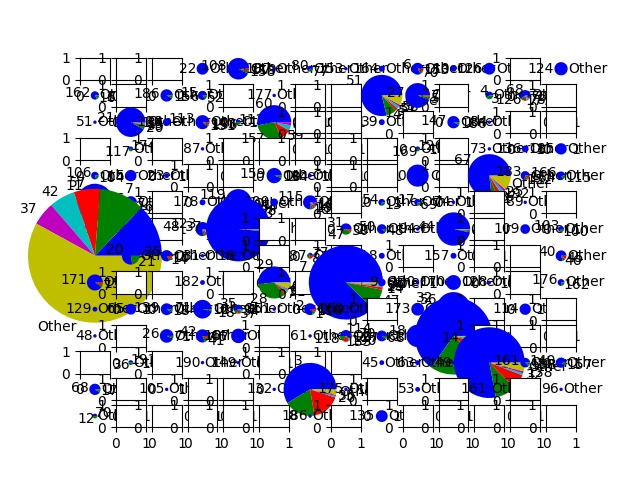
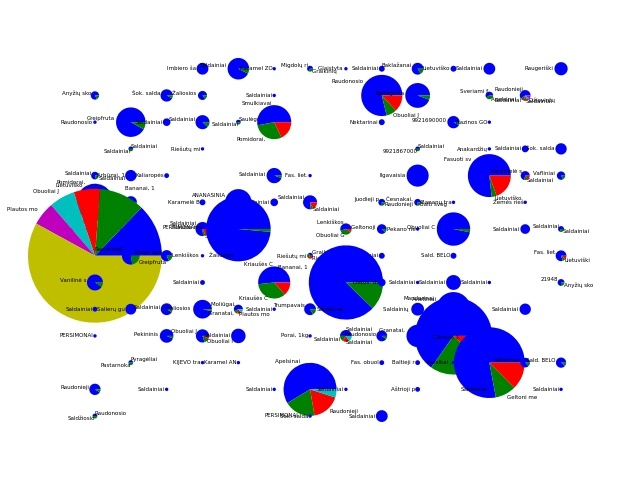
multi gpu, train clsf

Changed region(s): [[0.0625, 0.0938, 0.9688, 0.9375], [0.0, 0.4062, 0.0625, 0.4688], [0.4375, 0.9062, 0.4688, 0.9375]]

diff --git a/InterClassSimilarity_SOM/pie_cluster_purity.py b/InterClassSimilarity_SOM/pie_cluster_purity.py
@@ -3,6 +3,7 @@ import os
 import numpy as np
 from collections import Counter
 from Globals.globalvars import Glb
+import pandas as pd
 
 import matplotlib
 matplotlib.use('Agg')   # otherwise, on 1080 fails importing pyplot
@@ -17,6 +18,7 @@ clusters_filename_pattern = "som_clstrs_{}_{}x{}.h5"
 #dim_size = 14
 
 def purity_pie(set_name, dim_size):
+    df_prodnames = pd.read_csv("df_prods_194.csv", header=0)["product"].tolist()
     clusters_filename = os.path.join ( Glb.results_folder, clusters_filename_pattern.format ( set_name, str(dim_size), str(dim_size) ) )
 
     (pred_winner_neurons, lbls) = pickle.load( open(clusters_filename, 'rb') )
@@ -30,14 +32,27 @@ def purity_pie(set_name, dim_size):
             this_neuron_lbls = lbls[(pred_winner_neurons[:, 0] == i) & (pred_winner_neurons[:, 1] == j)].astype(int)
             most_common_classes = Counter(this_neuron_lbls).most_common()
             if len(most_common_classes) > 0:
-                max_cnt = np.minimum(len(most_common_classes),5)
+                # top 80% containing classes
+                cum_probs = np.cumsum([item[1]/len(this_neuron_lbls) for item in most_common_classes])
+                max_cnt = np.where(cum_probs > 0.8)[0][0] + 1
+                max_cnt = np.minimum(max_cnt,5)
+                #print ("i={},j={},max_cnt={}".format(i,j,max_cnt))
+                #if max_cnt==0:
+                #    print (cum_probs[:4])
+
                 sizes_first_n = [item[1] for item in most_common_classes[:max_cnt]]
                 sizes = sizes_first_n + [len(this_neuron_lbls) - np.sum(sizes_first_n)] # Add "Other"
-                labels = [item[0] for item in most_common_classes[:max_cnt]] + ["Other"]
+                prod_indices = [ item[0] for item in most_common_classes[:max_cnt]]
+                labels = [ df_prodnames[ind] for ind in prod_indices] + [""] # Add "Other"
+                labels = [ lbl[:10] for lbl in labels ] # left10
 
                 #print ("i={}, j={}, Len={}".format(i,j,len(this_neuron_lbls)))
                 radius = np.sqrt( len(this_neuron_lbls) / len(lbls)) * dim_size
-                axes[i,j].pie(sizes, labels=labels, colors=colors, radius=radius)#, textprops={'fontsize': 5}) #, autopct='%1.1f%%')
+                axes[i,j].pie(sizes, labels=labels, colors=colors, radius=radius, textprops={'fontsize': 4})#, textprops={'fontsize': 5}) #, autopct='%1.1f%%')
+            else:
+                #axes[i, j].set_xticks([])
+                #axes[i, j].set_yticks([])
+                axes[i, j].axis('off')
 
     #plt.show()
     plt.savefig(purity_filename_pattern.format(set_name, dim_size,dim_size))

diff --git a/InterClassSimilarity_SOM/infer_winners.py b/InterClassSimilarity_SOM/infer_winners.py
@@ -11,6 +11,10 @@ import time
 
 dim_size = 14
 
+set_names = ["Train", "Val", "Test"]
+do_predict = False
+do_piecharts = True
+
 # SOM clusterer
 som_filename = os.path.join(Glb.results_folder, "som_clusterer_{}x{}".format(dim_size, dim_size) )
 
@@ -20,20 +24,22 @@ clusters_filename_pattern = "som_clstrs_{}_{}x{}.h5"
 # Load SOM clusterer
 mysom = pickle.load ( open(som_filename, 'rb') )
 
-for set_name in ["Train", "Val", "Test"]:
-    # Load activations
-    orange_tab = loadActivations(set_name)
+for set_name in set_names:
+    if do_predict:
+        # Load activations
+        orange_tab = loadActivations(set_name)
 
-    # Inference: get winner neurons (i.e. cluster asssignment) for each sample
-    now = time.time()
-    pred_winner_neurons = mysom.winners ( orange_tab.X )
-    print("Prdicted winners in {} seconds".format(time.time() - now))
+        # Inference: get winner neurons (i.e. cluster asssignment) for each sample
+        now = time.time()
+        pred_winner_neurons = mysom.winners ( orange_tab.X )
+        print("Prdicted winners in {} seconds".format(time.time() - now))
 
-    # Save cluster assignment files
-    clusters_filename = os.path.join ( Glb.results_folder, clusters_filename_pattern.format ( set_name, str(dim_size), str(dim_size) ) )
-    now = time.time()
-    pickle.dump( (pred_winner_neurons, orange_tab.Y), open(clusters_filename, 'wb'))
-    print("Saved winners in {} seconds".format(time.time() - now))
+        # Save cluster assignment files
+        clusters_filename = os.path.join ( Glb.results_folder, clusters_filename_pattern.format ( set_name, str(dim_size), str(dim_size) ) )
+        now = time.time()
+        pickle.dump( (pred_winner_neurons, orange_tab.Y), open(clusters_filename, 'wb'))
+        print("Saved winners in {} seconds".format(time.time() - now))
 
-    # Calculate purity and draw pie charts
-    purity_pie(set_name,dim_size)
+    if do_piecharts:
+        # Calculate purity and draw pie charts
+        purity_pie(set_name,dim_size)
